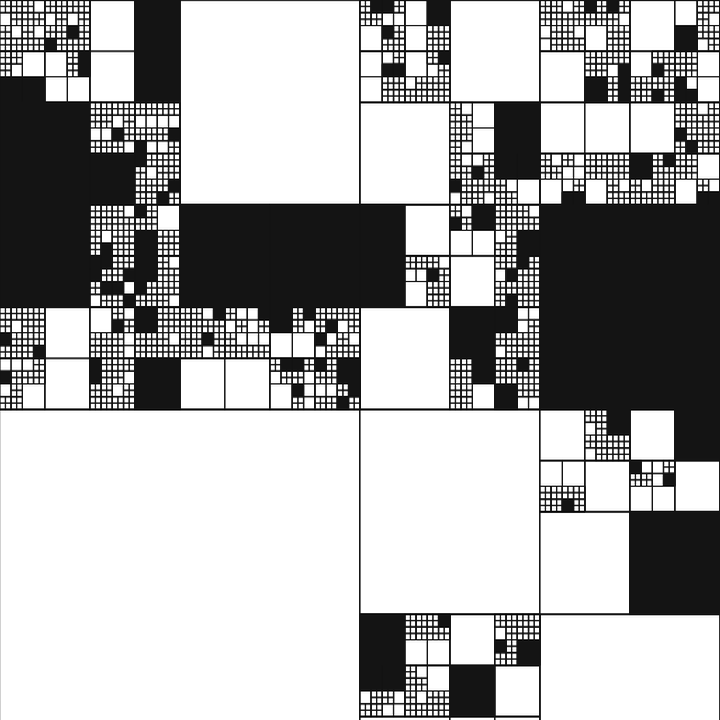
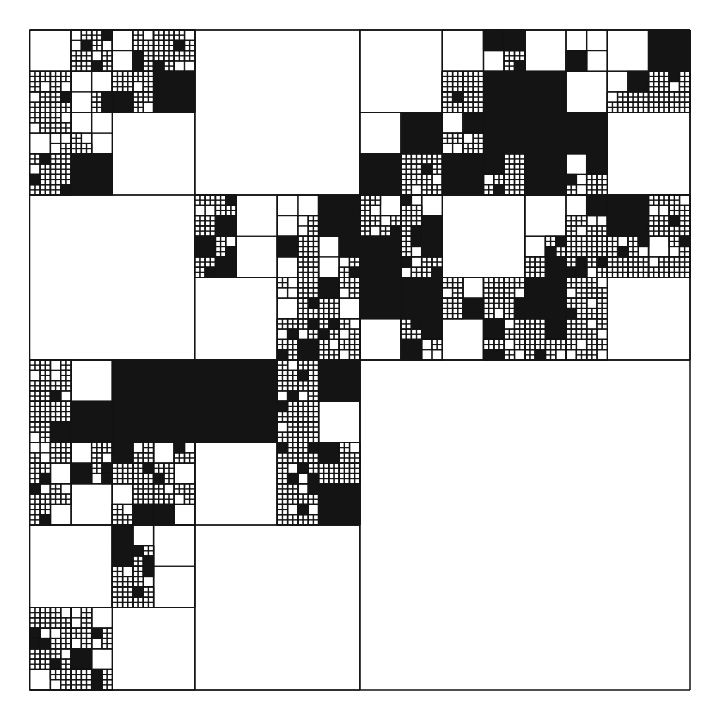
Fix blank #021 and mobile-tap re-render
Two small fixes for the current live site:

#021 was rendering blank ~20% of the time. Every variant of the
recursive square had this pattern:

    p.rect(x, y, s, s);
    if (s < 10) return;
    if (p.random() < 0.2) return;  // 20% stop at TOP LEVEL

At the top call (x=0, y=0, s=720) the outer square is drawn exactly
at the canvas edge — strokeWeight 1 is half-clipped — and 20% of
the time the random check fires and the function returns without
recursing. Result: a barely-visible edge stroke and nothing else,
which reads as blank.

Fix: draw with a 30px inset so the outer square is always visible,
and guard the random stop behind "depth > 0" so the top call always
subdivides at least once.

Mobile-tap re-render: the p5 canvas captures touch events
(touch-action: none by default), preventing the synthesized click
from bubbling to .holder. Setting pointer-events: none on the canvas
lets taps pass through to the holder, which has the click handler.
Safe because no drawing uses p5 mouse/touch event hooks.

diff --git a/drawings/021-recursive-square.html b/drawings/021-recursive-square.html
@@ -20,14 +20,15 @@
 const solutions = [
   { strategy: null, draw: (p) => {
     p.stroke(20); p.strokeWeight(1); p.noFill();
-    function rec(x, y, s) {
+    function rec(x, y, s, depth) {
       p.rect(x, y, s, s);
       if (s < 10) return;
-      if (p.random() < 0.2) return;
+      if (depth > 0 && p.random() < 0.2) return;
       const h = s/2;
-      rec(x, y, h); rec(x+h, y, h); rec(x, y+h, h); rec(x+h, y+h, h);
+      rec(x, y, h, depth+1); rec(x+h, y, h, depth+1); rec(x, y+h, h, depth+1); rec(x+h, y+h, h, depth+1);
     }
-    rec(0, 0, p.width);
+    const m = 30;
+    rec(m, m, p.width - m*2, 0);
   }},
   { strategy: "Make a sudden, destructive, unpredictable action; incorporate", draw: (p) => {
     p.stroke(20); p.strokeWeight(1);
@@ -35,11 +36,12 @@ const solutions = [
       p.noFill(); p.rect(x, y, s, s);
       if (s < 10) return;
       if (depth > 1 && p.random() < 0.12) { p.fill(20); p.rect(x, y, s, s); return; }
-      if (p.random() < 0.2) return;
+      if (depth > 0 && p.random() < 0.2) return;
       const h = s/2;
       rec(x, y, h, depth+1); rec(x+h, y, h, depth+1); rec(x, y+h, h, depth+1); rec(x+h, y+h, h, depth+1);
     }
-    rec(0, 0, p.width, 0);
+    const m = 30;
+    rec(m, m, p.width - m*2, 0);
   }},
   { strategy: "Be extravagant", draw: (p) => {
     p.stroke(20); p.strokeWeight(1); p.noFill();
@@ -47,13 +49,14 @@ const solutions = [
       p.rect(x, y, s, s);
       if (s < 6) return;
       if (depth >= 5) return;
-      if (p.random() < 0.2) return;
+      if (depth > 0 && p.random() < 0.2) return;
       const h = s/3;
       for (let i = 0; i < 3; i++) for (let j = 0; j < 3; j++) {
         rec(x + i*h, y + j*h, h, depth+1);
       }
     }
-    rec(0, 0, p.width, 0);
+    const m = 30;
+    rec(m, m, p.width - m*2, 0);
   }},
   { strategy: "Look at the order in which you do things", draw: (p) => {
     p.noFill(); p.strokeWeight(1);
@@ -62,11 +65,12 @@ const solutions = [
       p.stroke(20, a);
       p.rect(x, y, s, s);
       if (s < 10) return;
-      if (p.random() < 0.2) return;
+      if (depth > 0 && p.random() < 0.2) return;
       const h = s/2;
       rec(x, y, h, depth+1); rec(x+h, y, h, depth+1); rec(x, y+h, h, depth+1); rec(x+h, y+h, h, depth+1);
     }
-    rec(0, 0, p.width, 0);
+    const m = 30;
+    rec(m, m, p.width - m*2, 0);
   }},
 ];
 </script>

diff --git a/drawings/shared.css b/drawings/shared.css
@@ -6,6 +6,7 @@ p { font-size: 15px; line-height: 1.55; margin: 0; }
 .strategy { font-size: 11px; color: #0a6; margin-top: 6px !important; font-style: italic; }
 .strategy:empty { display: none; }
 .holder { width: 720px; height: 720px; background: #fff; border: 1px solid #ddd; order: 1; cursor: pointer; }
+.holder canvas { pointer-events: none; }
 .card { order: 2; cursor: pointer; }
 .back { position: fixed; top: 16px; left: 16px; font-size: 12px; color: #666; text-decoration: none; letter-spacing: 0.04em; }
 .back:hover { color: #111; }
